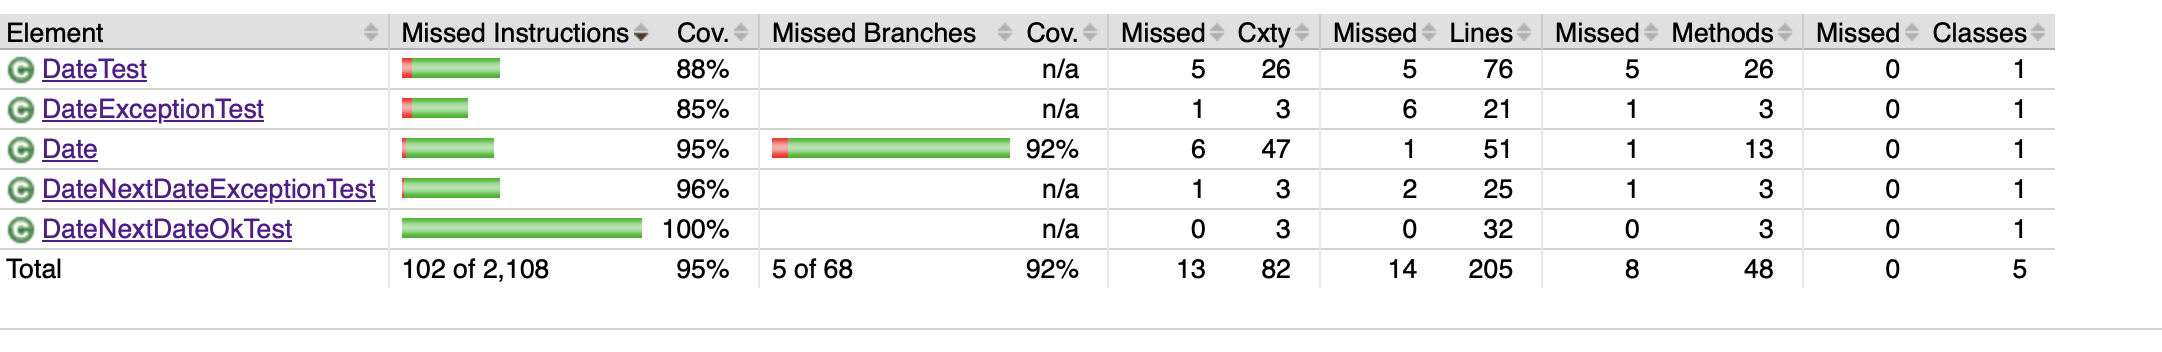
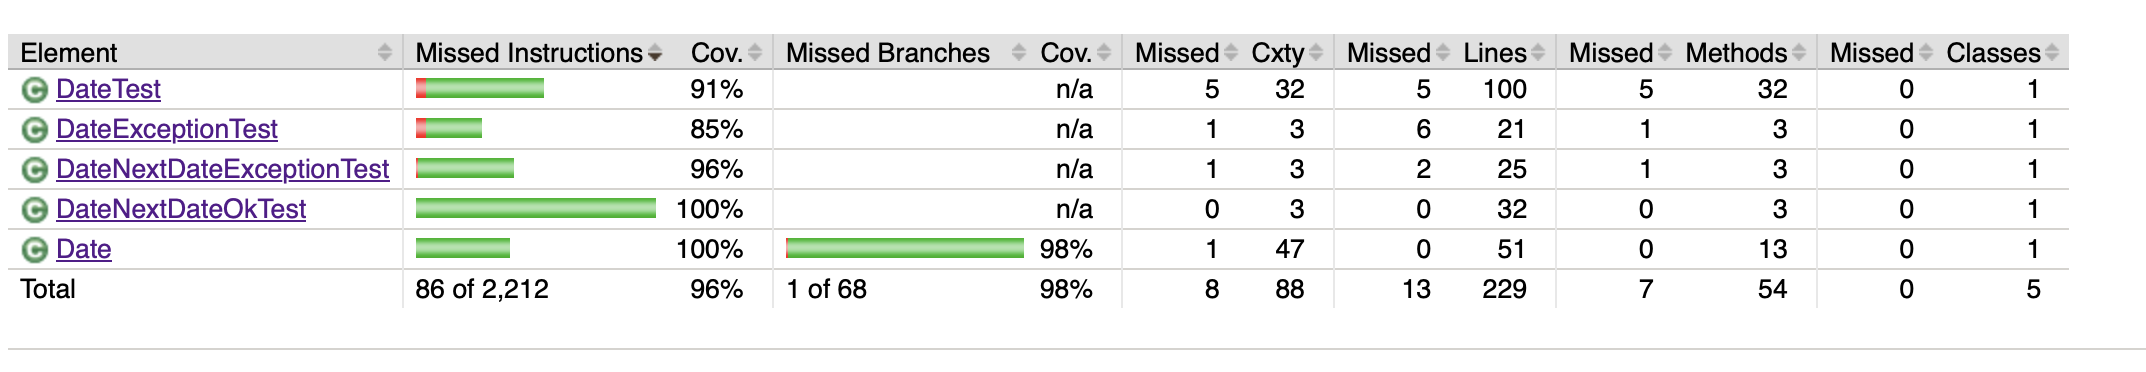
final lab commit

Changed region(s): [[0.0, 0.0312, 0.9678, 0.8125], [0.9366, 0.75, 0.9678, 0.7812], [0.0, 0.9062, 0.0312, 0.9375]]

diff --git a/lab03/README.md b/lab03/README.md
@@ -6,15 +6,16 @@ Ahmad Alkawasmeh
 The goal of this lab was to implement coverage tests, learn how coverage tests work and the underlying mechanisms of coverage testing tools. 
 
 ## Important remarks
-I was only able to achieve 95 percent line coverage and 92 percent branch coverage before refactoring. I know this is the best I could do without changing the actual Date class because it was due to an **unreachable** branch of the method named **isEndOfMonth**. That is where the date needs to be **February 30 and not leap year**, which makes it an invalid date, thus an illegalArgumentException is thrown **before** it reaches the **isEndOfMonth** method, therefore we can never cover that branch. There is also another method that is not being used, which is the **toString** method. Since this method never gets used in the class, it will never be reachable and thus lower our coverage results. 
+I was only able to achieve 98 percent branch coverage before refactoring. I know this is the best I could do without changing the actual Date class because it was due to an **unreachable** branch of the method named **isEndOfMonth**. That is where the date needs to be **February 30 and not leap year**, which makes it an invalid date, thus an illegalArgumentException is thrown **before** it reaches the **isEndOfMonth** method, therefore we can never cover that branch. 
+
+After refactoring, I was able to achieve 100 percent coverage for the Date class.
 
 ## Run instructions
-
 In order to run the tests with jacoco coverage: 
 - Download the lab03 folder
 - Change directory into the downloaded lab03 folder 
 - Finally execute: 
-	- ./date/bin/test  
+	- ./date/bin/jacoco
 
 
 ## Screenshots
